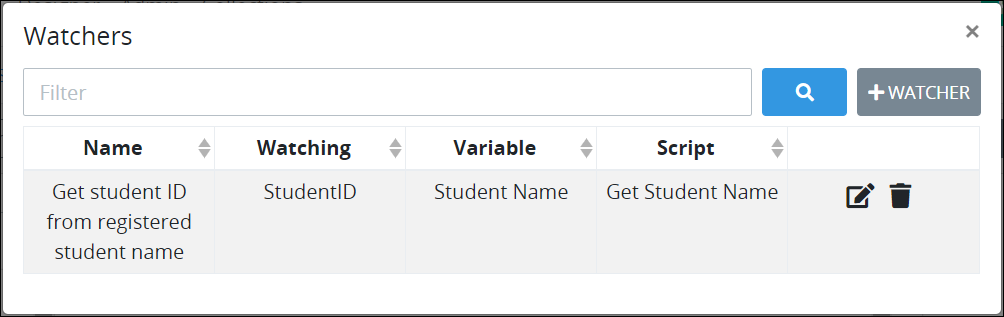
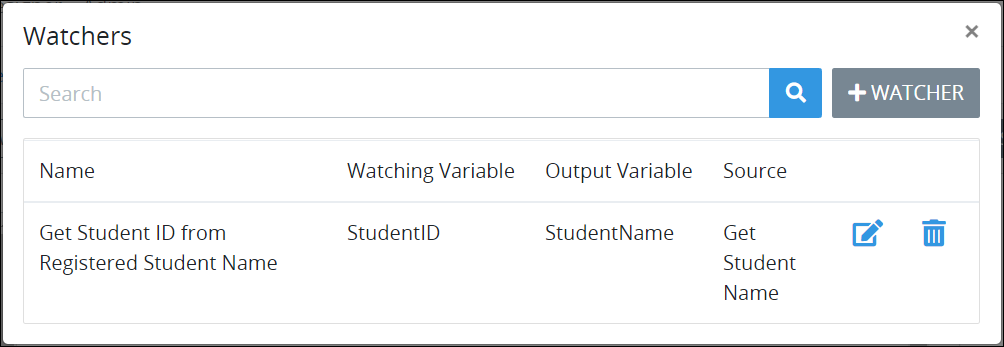
GitBook: [processmaker] 4 pages and 8 assets modified

diff --git a/designing-processes/design-forms/screens-builder/manage-watchers/edit-a-watcher-for-a-screen.md b/designing-processes/design-forms/screens-builder/manage-watchers/edit-a-watcher-for-a-screen.md
@@ -23,52 +23,52 @@ This topic has been updated for the ProcessMaker 4.0.1 release.
 
 Follow these steps to edit a Watcher in a ProcessMaker Screen:
 
-1. [Open](../../manage-forms/view-all-forms.md) the ProcessMaker Screen in which to edit a Watcher. The ProcessMaker Screen is in [Design mode](../screens-builder-modes.md#editor-mode).
-2. Click the **Watchers** button![](../../../../.gitbook/assets/watchers-button-screens-builder-processes.png). The **Watchers** screen displays all Watchers configured for this ProcessMaker Screen. ![](../../../../.gitbook/assets/watchers-screen-screens-builder-processes.png)
-3. Click the **Edit** icon![](../../../../.gitbook/assets/edit-icon.png)for the Watch to edit. The **Watchers** screen displays that Watcher's settings. ![](../../../../.gitbook/assets/watchers-configuration-screens-builder-processes.png) 
-4. Edit the following settings about the Watcher as necessary:
+1. [Open](../../manage-forms/view-all-forms.md) the ProcessMaker Screen in which to add a Watcher. The ProcessMaker Screen is in [Design mode](../screens-builder-modes.md#editor-mode).
+2. Click the **Watchers** button![](../../../../.gitbook/assets/watchers-button-screens-builder-processes.png). The **Watchers** screen displays all Watchers configured for this ProcessMaker Screen. ![](../../../../.gitbook/assets/watchers-screen-screens-builder-processes.png) 
+3. Click the **Edit** icon![](../../../../.gitbook/assets/edit-icon.png)for the Watch to edit. The **Watchers** screen displays that Watcher's settings with the **Configuration** panel expanded. ![](../../../../.gitbook/assets/watcher-editing-screens-builder-processes.png) 
+4. From the **Configuration** panel, edit how the Watcher monitors for a control's value to change as necessary. Follow these guidelines:
    * In the **Watcher Name** setting, edit the name of the Watcher. This is a required setting.
-   * From the **Variable to Watch** drop-down menu, select which ProcessMaker Screen control by its **Variable Name** setting value the Watcher monitors for its value to change.
-   * From the **Source** setting, select whether the Watcher acts upon a [ProcessMaker Data Connector](../../../data-connector-management/what-is-a-data-connector.md) or runs a [ProcessMaker Script](../../../scripts/what-is-a-script.md) when the monitored control's value changes. Follow these guidelines:
-     * **ProcessMaker Data Connector:**
-       1. From the **Source** drop-down menu, select a ProcessMaker Data Connector from the **Data Connector** section upon which to act when the monitored control's value changes. The **Endpoint** setting displays below the **Source** drop-down menu.
-       2. From the **Endpoint** drop-down menu, select which endpoint to act upon in the selected ProcessMaker Data Connector. These endpoints are configured from the ProcessMaker Data Connector itself. Depending on the ProcessMaker Data Connector selected from the **Data Connector** section of the **Source** drop-down menu, these endpoints may reference API endpoints or ProcessMaker Collection records.
-       3. Optionally, in the **Input Data** setting, enter a valid JSON object the Watcher passes to the ProcessMaker Data Connector prior to acting upon the selected endpoint. The ProcessMaker Data Connector may reference ProcessMaker Screen control values by referencing their **Variable Name** setting values when placed within [mustache syntax](https://mustache.github.io/mustache.5.html). In the example below, `FullName` is the **Variable Name** setting value for a control to store a Request participant's full name:
+   * From the **Variable to Watch** drop-down menu, select which ProcessMaker Screen control by its **Variable Name** setting value the Watcher monitors for its value to change. This is a required setting.
+   * Select the **Run Synchronously** checkbox to perform the Watcher's action synchronously while the ProcessMaker Screen remains functional to the Screen user. If the **Run Synchronously** checkbox is not selected when the Watcher runs, the ProcessMaker Screen locks until the Watcher's action completes.
+5. Select the **Source** panel. ![](../../../../.gitbook/assets/watcher-editing-source-screens-builder-processes.png) 
+6. From the **Source** panel, select whether the Watcher acts upon a [ProcessMaker Data Connector](../../../data-connector-management/what-is-a-data-connector.md) or runs a [ProcessMaker Script](../../../scripts/what-is-a-script.md) when the monitored control's value changes. Follow these guidelines:
+   * **Use a ProcessMaker Data Connector as the source:**
+     1. From the **Source** drop-down menu, select a ProcessMaker Data Connector from the **Data Connector** section upon which to act when the monitored control's value changes. The **Endpoint** setting displays below the **Source** drop-down menu.
+     2. From the **Endpoint** drop-down menu, select which endpoint to act upon in the selected ProcessMaker Data Connector. These endpoints are configured from the ProcessMaker Data Connector itself. Depending on the ProcessMaker Data Connector selected from the **Data Connector** section of the **Source** drop-down menu, these endpoints may reference API endpoints or ProcessMaker Collection records.
+     3. Optionally, in the **Input Data** setting, enter a valid JSON object the Watcher passes to the ProcessMaker Data Connector prior to acting upon the selected endpoint. The ProcessMaker Data Connector may reference ProcessMaker Screen control values by referencing their **Variable Name** setting values when placed within [mustache syntax](https://mustache.github.io/mustache.5.html). In the example below, `FullName` is the **Variable Name** setting value for a control to store a Request participant's full name:
 
-          `{`
+        `{`
 
-            `"Name": "{{ FullName }}"`
+          `"Name": "{{ FullName }}"`
 
-          `}`
+        `}`
+   * **Use a ProcessMaker Script as the source:**
+     1. From the **Source** drop-down menu, select a ProcessMaker Script from the **Script** section to run when the monitored control's value changes.
+     2. Optionally, in the **Input Data** setting, enter a valid JSON object the Watcher passes to the ProcessMaker Script prior to running as input data for the Script. The ProcessMaker Script may reference ProcessMaker Screen control values by referencing their **Variable Name** setting values when placed within [mustache syntax](https://mustache.github.io/mustache.5.html). In the example below, `FullName` is the **Variable Name** setting value for a control to store a Request participant's full name:
 
-       4. In the **Form Data** section, specify JSON object key-value pairs that map data from the ProcessMaker Data Connector to the JSON data array you will specify in the **Output Variable Name** setting below.
+        `{`
 
-          Follow these guidelines to add a JSON data object to map data from the ProcessMaker Data Connector:
+          `"Name": "{{ FullName }}"`
 
-          1. From the **Form Data** section, click the **+Data** button. A new row displays settings to add a new JSON data object's key name and value. ![](../../../../.gitbook/assets/key-value-form-data-watcher-configuration-screens-builder-processes.png) 
-          2. In the **key** setting, enter the key name for that JSON data object.
-          3. In the **value** setting, enter the value for that JSON data object.
-          4. Optionally, to delete the JSON data object, click its **Delete** icon![](../../../../.gitbook/assets/delete-record-record-list-control-screens-builder-processes.png).
-          5. Repeat these guidelines as necessary for each JSON data object necessary to map to data from the ProcessMaker Data Connector.
+        `}`
 
-       5. In the **Output Variable Name** setting, enter the control by its **Variable Name** setting that the Watcher outputs the value of its result. When this Watcher triggers during a Request, the **Output Variable Name** setting value becomes a JSON data array in the Request data that contains the mapped JSON data objects specified in the **Form Data** section.
-     * **ProcessMaker Script:**
-       1. From the **Source** drop-down menu, select a ProcessMaker Script from the **Script** section to run when the monitored control's value changes.
-       2. Optionally, in the **Input Data** setting, enter a valid JSON object the Watcher passes to the ProcessMaker Script prior to running as input data for the Script. The ProcessMaker Script may reference ProcessMaker Screen control values by referencing their **Variable Name** setting values when placed within [mustache syntax](https://mustache.github.io/mustache.5.html). In the example below, `FullName` is the **Variable Name** setting value for a control to store a Request participant's full name:
-
-          `{`
-
-            `"Name": "{{ FullName }}"`
-
-          `}`
-
-       3. Optionally, in the **Script Configuration** setting, include JSON configuration settings your ProcessMaker Script uses when it runs.
-       4. In the **Output Variable** name setting, enter the control by its **Variable Name** setting value that the Watcher outputs the value of its result.
-5. Select the **Run Synchronously** checkbox to perform the Watcher's action synchronously while the ProcessMaker Screen remains functional to the Screen user. If the **Run Synchronously** checkbox is not selected when the Watcher runs, the ProcessMaker Screen locks until the Watcher's action completes.
-6. Click **Save**. The following message displays: **Watcher updated**.
+     3. Optionally, in the **Script Configuration** setting, include JSON configuration settings your ProcessMaker Script uses when it runs.
+7. Select the **Output** panel. ![](../../../../.gitbook/assets/watcher-editing-output-screens-builder-processes.png) 
+8. From the **Output** panel, specify to which control that the Watcher outputs its value by referencing its **Variable Name** setting after the Watcher performs the action configured from the **Source** panel. The control that the Watcher outputs its value does not need to be in this ProcessMaker Screen. The output control may be in a different ProcessMaker Screen referenced elsewhere in this Request. Follow these guidelines:
+   * **A ProcessMaker Data Connector is the source:**
+     1. In the **Output Variable** setting, enter the control by its **Variable Name** setting that the Watcher outputs the value of its result.
+     2. From the **Output Variable Property Mapping** section, specify how the Watcher maps values from the Data Connector to the output control specified in the **Output Variable** setting. In doing so, the Watcher maps the Data Connector output as a set of properties in JSON format to the output control. Follow these guidelines to map each property:
+        1. Click the **+Property** button. The **Key** and **Value** settings display to specify the key name and its value as part of the JSON object for that property.
+        2. In the **Key** setting, enter the key name for that property's JSON object.
+        3. In the **Value** setting, enter the value for that property's JSON object.
+        4. Optionally, click the **Delete** icon![](../../../../.gitbook/assets/delete-record-record-list-control-screens-builder-processes.png)to delete an added property.
+        5. Repeat steps 1 through 4 for each property to add to the output control.
+   * **A ProcessMaker Script is a source:**
+     1. In the **Output Variable** setting, enter the control by its **Variable Name** setting that the Watcher outputs the value of its result.
+9. Click **Save**. The Watcher displays in the **Watchers** screen. The following message displays: **Watcher updated**.
 
 {% hint style="info" %}
-Ensure to [save your ProcessMaker Screen](../save-a-screen.md#save-a-processmaker-screen). The Watcher is note edited until you save it. Doing so will save your work if that your [session expires](../../../../using-processmaker/session-timeout-warning.md#session-timeout-warning).
+Ensure to [save your ProcessMaker Screen](../save-a-screen.md#save-a-processmaker-screen). The Watcher is not edited until you save it. Doing so will save your work if that your [session expires](../../../../using-processmaker/session-timeout-warning.md#session-timeout-warning).
 {% endhint %}
 
 ## Related Topics

diff --git a/designing-processes/design-forms/screens-builder/manage-watchers/add-a-watcher-to-a-screen.md b/designing-processes/design-forms/screens-builder/manage-watchers/add-a-watcher-to-a-screen.md
@@ -25,11 +25,14 @@ Follow these steps to add a Watcher to a ProcessMaker Screen:
 
 1. [Open](../../manage-forms/view-all-forms.md) the ProcessMaker Screen in which to add a Watcher. The ProcessMaker Screen is in [Design mode](../screens-builder-modes.md#editor-mode).
 2. Click the **Watchers** button![](../../../../.gitbook/assets/watchers-button-screens-builder-processes.png). The **Watchers** screen displays all Watchers configured for this ProcessMaker Screen. ![](../../../../.gitbook/assets/watchers-screen-no-watchers-screens-builder-processes.png)
-3. Click the **+Watcher** button. The **Watchers** screen displays. ![](../../../../.gitbook/assets/watchers-configuration-screens-builder-processes.png) 
-4. In the **Watcher Name** setting, enter the name of the Watcher. This is a required setting.
-5. From the **Variable to Watch** drop-down menu, select which ProcessMaker Screen control by its **Variable Name** setting value the Watcher monitors for its value to change.
-6. From the **Source** setting, select whether the Watcher acts upon a [ProcessMaker Data Connector](../../../data-connector-management/what-is-a-data-connector.md) or runs a [ProcessMaker Script](../../../scripts/what-is-a-script.md) when the monitored control's value changes. Follow these guidelines:
-   * **ProcessMaker Data Connector:**
+3. Click the **+Watcher** button. The **Watchers** screen displays with the **Configuration** panel expanded. ![](../../../../.gitbook/assets/watchers-screen-configuration-panel-screens-builder-processes.png)
+4. From the **Configuration** panel, configure how the Watcher monitors for a control's value to change. Follow these guidelines:
+   * In the **Watcher Name** setting, enter the name of the Watcher. This is a required setting.
+   * From the **Variable to Watch** drop-down menu, select which ProcessMaker Screen control by its **Variable Name** setting value the Watcher monitors for its value to change. This is a required setting.
+   * Select the **Run Synchronously** checkbox to perform the Watcher's action synchronously while the ProcessMaker Screen remains functional to the Screen user. If the **Run Synchronously** checkbox is not selected when the Watcher runs, the ProcessMaker Screen locks until the Watcher's action completes.
+5. Select the **Source** panel. ![](../../../../.gitbook/assets/watchers-screen-source-panel-screens-builder-processes.png) 
+6. From the **Source** panel, select whether the Watcher acts upon a [ProcessMaker Data Connector](../../../data-connector-management/what-is-a-data-connector.md) or runs a [ProcessMaker Script](../../../scripts/what-is-a-script.md) when the monitored control's value changes. Follow these guidelines:
+   * **Use a ProcessMaker Data Connector as the source:**
      1. From the **Source** drop-down menu, select a ProcessMaker Data Connector from the **Data Connector** section upon which to act when the monitored control's value changes. The **Endpoint** setting displays below the **Source** drop-down menu.
      2. From the **Endpoint** drop-down menu, select which endpoint to act upon in the selected ProcessMaker Data Connector. These endpoints are configured from the ProcessMaker Data Connector itself. Depending on the ProcessMaker Data Connector selected from the **Data Connector** section of the **Source** drop-down menu, these endpoints may reference API endpoints or ProcessMaker Collection records.
      3. Optionally, in the **Input Data** setting, enter a valid JSON object the Watcher passes to the ProcessMaker Data Connector prior to acting upon the selected endpoint. The ProcessMaker Data Connector may reference ProcessMaker Screen control values by referencing their **Variable Name** setting values when placed within [mustache syntax](https://mustache.github.io/mustache.5.html). In the example below, `FullName` is the **Variable Name** setting value for a control to store a Request participant's full name:
@@ -39,19 +42,7 @@ Follow these steps to add a Watcher to a ProcessMaker Screen:
           `"Name": "{{ FullName }}"`
 
         `}`
-
-     4. In the **Form Data** section, specify JSON object key-value pairs that map data from the ProcessMaker Data Connector to the JSON data array you will specify in the **Output Variable Name** setting below.
-
-        Follow these guidelines to add a JSON data object to map data from the ProcessMaker Data Connector:
-
-        1. From the **Form Data** section, click the **+Data** button. A new row displays settings to add a new JSON data object's key name and value. ![](../../../../.gitbook/assets/key-value-form-data-watcher-configuration-screens-builder-processes.png) 
-        2. In the **key** setting, enter the key name for that JSON data object.
-        3. In the **value** setting, enter the value for that JSON data object.
-        4. Optionally, to delete the JSON data object, click its **Delete** icon![](../../../../.gitbook/assets/delete-record-record-list-control-screens-builder-processes.png).
-        5. Repeat these guidelines as necessary for each JSON data object necessary to map to data from the ProcessMaker Data Connector.
-
-     5. In the **Output Variable Name** setting, enter the control by its **Variable Name** setting that the Watcher outputs the value of its result. When this Watcher triggers during a Request, the **Output Variable Name** setting value becomes a JSON data array in the Request data that contains the mapped JSON data objects specified in the **Form Data** section.
-   * **ProcessMaker Script:**
+   * **Use a ProcessMaker Script as the source:**
      1. From the **Source** drop-down menu, select a ProcessMaker Script from the **Script** section to run when the monitored control's value changes.
      2. Optionally, in the **Input Data** setting, enter a valid JSON object the Watcher passes to the ProcessMaker Script prior to running as input data for the Script. The ProcessMaker Script may reference ProcessMaker Screen control values by referencing their **Variable Name** setting values when placed within [mustache syntax](https://mustache.github.io/mustache.5.html). In the example below, `FullName` is the **Variable Name** setting value for a control to store a Request participant's full name:
 
@@ -62,9 +53,19 @@ Follow these steps to add a Watcher to a ProcessMaker Screen:
         `}`
 
      3. Optionally, in the **Script Configuration** setting, include JSON configuration settings your ProcessMaker Script uses when it runs.
-     4. In the **Output Variable** name setting, enter the control by its **Variable Name** setting value that the Watcher outputs the value of its result.
-7. Select the **Run Synchronously** checkbox to perform the Watcher's action synchronously while the ProcessMaker Screen remains functional to the Screen user. If the **Run Synchronously** checkbox is not selected when the Watcher runs, the ProcessMaker Screen locks until the Watcher's action completes.
-8. Click **Save**. The Watcher displays in the **Watchers** screen. The following message displays: **Watcher saved**.
+7. Select the **Output** panel. ![](../../../../.gitbook/assets/watchers-screen-output-panel-screens-builder-processes.png) 
+8. From the **Output** panel, specify to which control that the Watcher outputs its value by referencing its **Variable Name** setting after the Watcher performs the action configured from the **Source** panel. The control that the Watcher outputs its value does not need to be in this ProcessMaker Screen. The output control may be in a different ProcessMaker Screen referenced elsewhere in this Request. Follow these guidelines:
+   * **A ProcessMaker Data Connector is the source:**
+     1. In the **Output Variable** setting, enter the control by its **Variable Name** setting that the Watcher outputs the value of its result.
+     2. From the **Output Variable Property Mapping** section, specify how the Watcher maps values from the Data Connector to the output control specified in the **Output Variable** setting. In doing so, the Watcher maps the Data Connector output as a set of properties in JSON format to the output control. Follow these guidelines to map each property:
+        1. Click the **+Property** button. The **Key** and **Value** settings display to specify the key name and its value as part of the JSON object for that property.
+        2. In the **Key** setting, enter the key name for that property's JSON object.
+        3. In the **Value** setting, enter the value for that property's JSON object.
+        4. Optionally, click the **Delete** icon![](../../../../.gitbook/assets/delete-record-record-list-control-screens-builder-processes.png)to delete an added property.
+        5. Repeat steps 1 through 4 for each property to add to the output control.
+   * **A ProcessMaker Script is a source:**
+     1. In the **Output Variable** setting, enter the control by its **Variable Name** setting that the Watcher outputs the value of its result.
+9. Click **Save**. The Watcher displays in the **Watchers** screen. The following message displays: **Watcher saved**.
 
 {% hint style="info" %}
 Ensure to [save your ProcessMaker Screen](../save-a-screen.md#save-a-processmaker-screen). The Watcher is not added to your ProcessMaker Screen until you save it. Doing so will save your work if that your [session expires](../../../../using-processmaker/session-timeout-warning.md#session-timeout-warning).

diff --git a/designing-processes/process-design/model-your-process/add-and-configure-task-elements.md b/designing-processes/process-design/model-your-process/add-and-configure-task-elements.md
@@ -397,7 +397,7 @@ The following may be email Task notification recipients:
 * ProcessMaker [users](../../../processmaker-administration/add-users/what-is-a-user.md) and/or [group](../../../processmaker-administration/assign-groups-to-users/what-is-a-group.md) members.
 * Specific email addresses for individuals who are not ProcessMaker users in your ProcessMaker instance.
 
-The email body for the Task notification may be plain text or referenced from a [Email](../../design-forms/screens-builder/types-for-screens.md#email)-type ProcessMaker Screen. If referencing the email body from a Display-type [ProcessMaker Screen](../../design-forms/what-is-a-form.md), you may use the value from a Screen's **Variable Name** setting as a variable in this field. For example, if your Process model references a ProcessMaker Screen that contains a [Line Input control](../../design-forms/screens-builder/control-descriptions/line-input-control-settings.md) with the **Variable Name** setting value of `EmailAddress` into which the Request participant enters an email address, use mustache syntax `{{EmailAddress}}` to use that Line Input control's value in the ProcessMaker Screen.
+The email body for the Task notification may be plain text or referenced from a [Email](../../design-forms/screens-builder/types-for-screens.md#email)-type ProcessMaker Screen. If referencing the email body from a Display-type [ProcessMaker Screen](../../design-forms/what-is-a-form.md), you may use the value from a Screen's **Variable Name** setting as a variable in this field. For example, if your Process model references a ProcessMaker Screen that contains a [Line Input control](../../design-forms/screens-builder/control-descriptions/line-input-control-settings.md) with the **Variable Name** setting value of `EmailAddress` into which the Request participant enters an email address, use [mustache syntax](https://mustache.github.io/mustache.5.html) `{{EmailAddress}}` to use that Line Input control's value in the ProcessMaker Screen.
 
 Set when email Task notifications are sent to email recipients:
 

diff --git a/designing-processes/design-forms/screens-builder/manage-watchers/view-watchers-for-a-screen.md b/designing-processes/design-forms/screens-builder/manage-watchers/view-watchers-for-a-screen.md
@@ -26,7 +26,7 @@ Follow these steps to view Watchers for a ProcessMaker Screen:
 1. [Open](../../manage-forms/view-all-forms.md) the ProcessMaker Screen in which to view its Watchers. The ProcessMaker Screen is in [Design mode](../screens-builder-modes.md#editor-mode).
 2. Click the **Watchers** button![](../../../../.gitbook/assets/watchers-button-screens-builder-processes.png). The ProcessMaker Screen is in [Watchers](../screens-builder-modes.md#watchers-mode) mode. The **Watchers** screen displays all Watchers configured for this ProcessMaker Screen.
 
-![Watchers screen in Watchers mode](../../../../.gitbook/assets/watchers-screen-screens-builder-processes.png)
+![Watchers screen in Watcher mode](../../../../.gitbook/assets/watchers-screen-screens-builder-processes.png)
 
 The following information displays about each Watcher:
 
